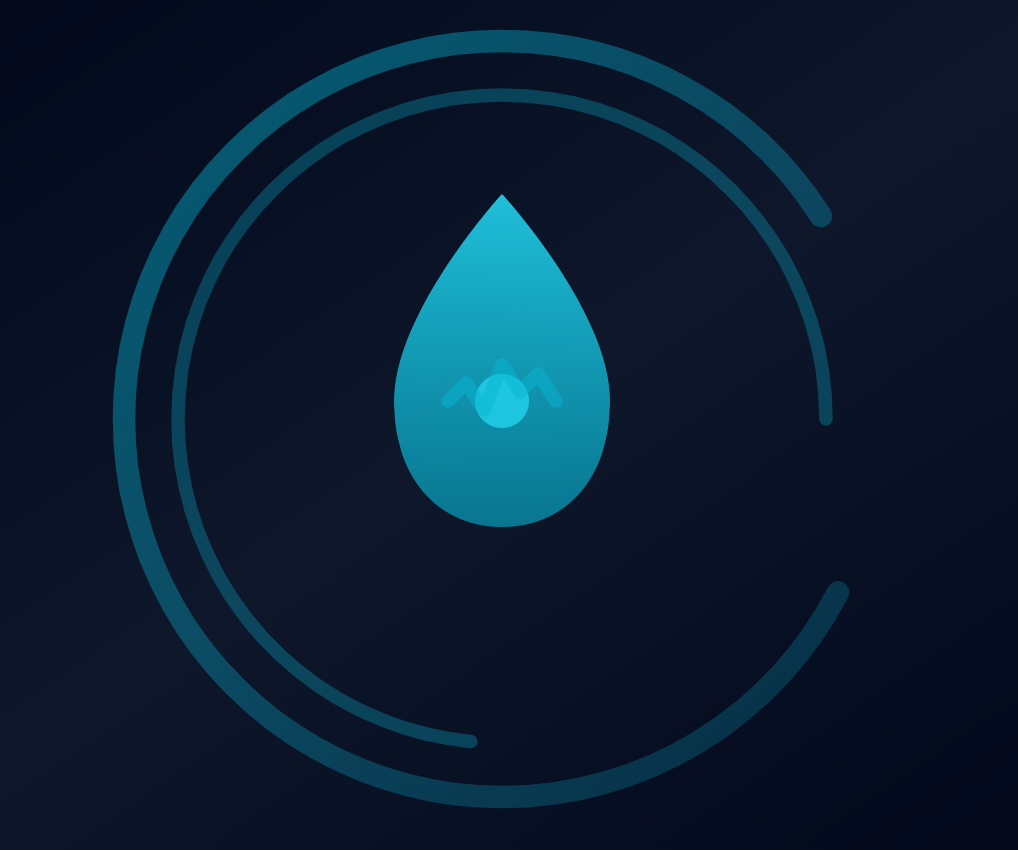
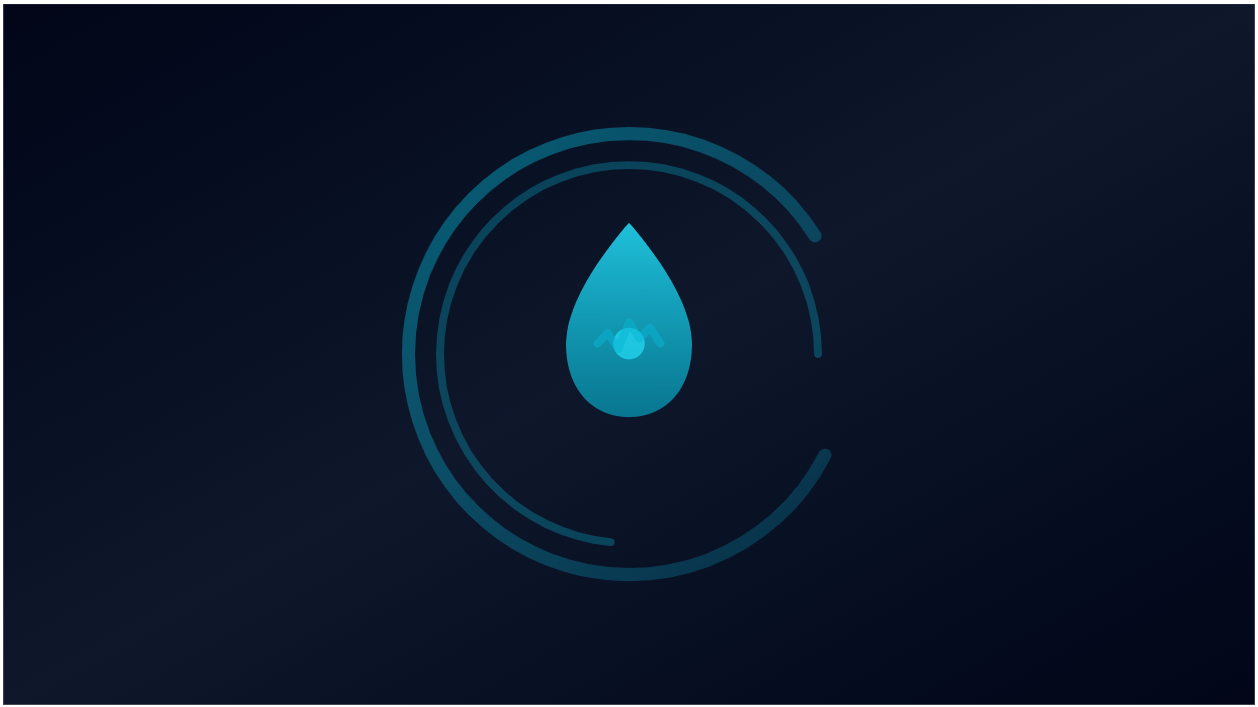
Projects: standardize 16:9 media frame and update project images
Made-with: Cursor

diff --git a/components/ProjectCard.tsx b/components/ProjectCard.tsx
@@ -28,33 +28,31 @@ export default function ProjectCard({
   comingSoon = false,
   imageSrc,
   imagePosition = "top",
-  imageFit = "cover",
-  imageAspect = "video",
+  // imageFit/imageAspect kept for backwards compatibility, but the
+  // card media frame is intentionally standardized across projects.
+  imageFit: _imageFit = "cover",
+  imageAspect: _imageAspect = "video",
 }: ProjectCardProps) {
   return (
     <div className="card h-full flex flex-col overflow-hidden">
       {/* Image wrapper with consistent spacing */}
       <div className="px-6 pt-6 pb-4">
         <div
-          className="w-full flex items-center justify-center rounded-xl border"
+          className="w-full overflow-hidden rounded-xl border relative"
           style={{
             background: "#0d1220",
             borderColor: "var(--border)",
-            aspectRatio: imageAspect === "taller" ? "4/3" : "16/9",
+            aspectRatio: "16/9",
           }}
         >
           {imageSrc ? (
             <Image
               src={imageSrc}
               alt=""
+              fill
+              sizes="(max-width: 768px) 100vw, 50vw"
               quality={95}
-              width={360}
-              height={203}
-              className={
-                imageFit === "cover"
-                  ? "max-w-full h-auto object-cover"
-                  : "max-w-full h-auto object-contain"
-              }
+              className="object-cover"
               style={{
                 objectPosition:
                   imagePosition === "center"
@@ -65,9 +63,11 @@ export default function ProjectCard({
               }}
             />
           ) : (
-            <span className="text-xs text-[var(--text-muted)]">
-              {comingSoon ? "Coming Soon" : "Image"}
-            </span>
+            <div className="absolute inset-0 flex items-center justify-center">
+              <span className="text-xs text-[var(--text-muted)]">
+                {comingSoon ? "Coming Soon" : "Image"}
+              </span>
+            </div>
           )}
         </div>
       </div>
